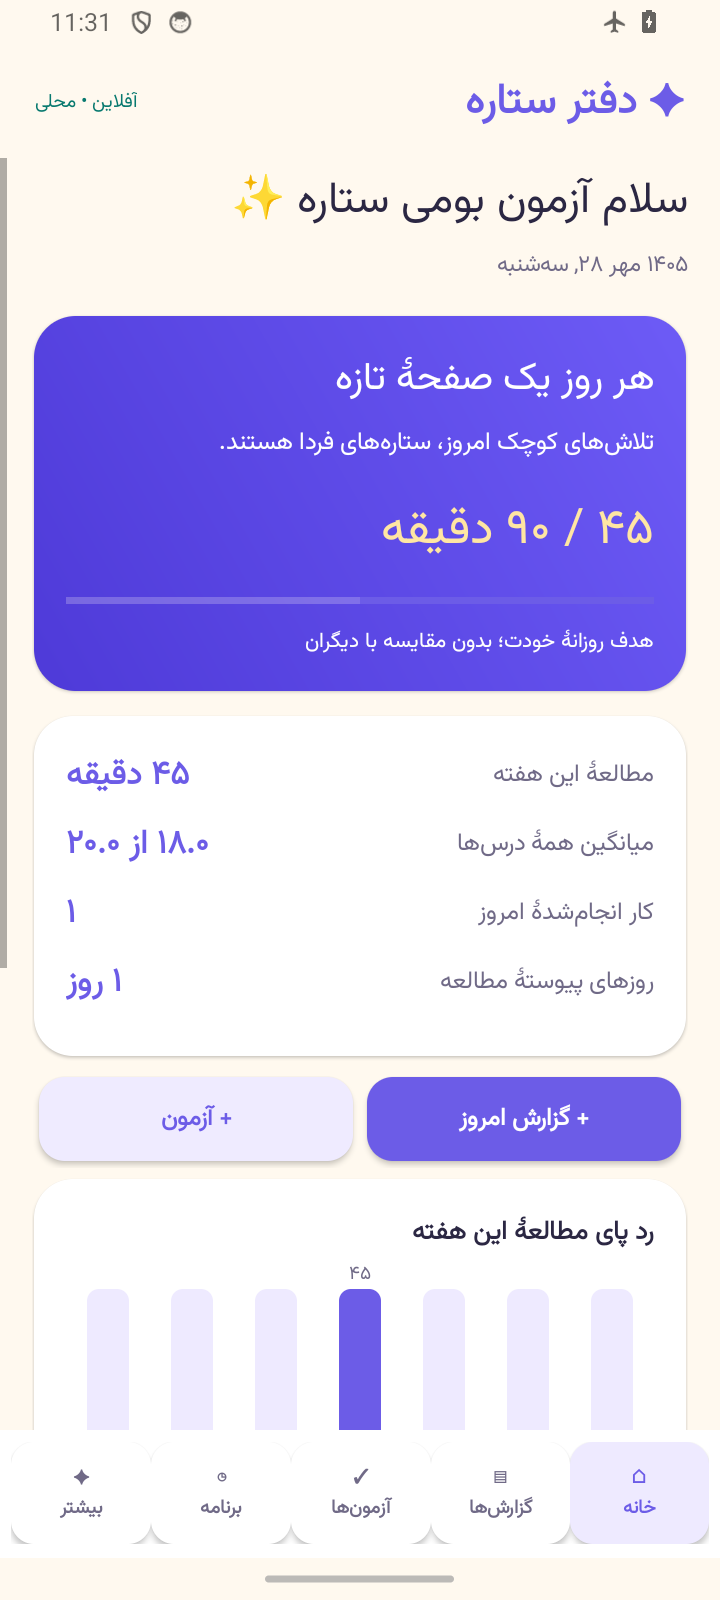
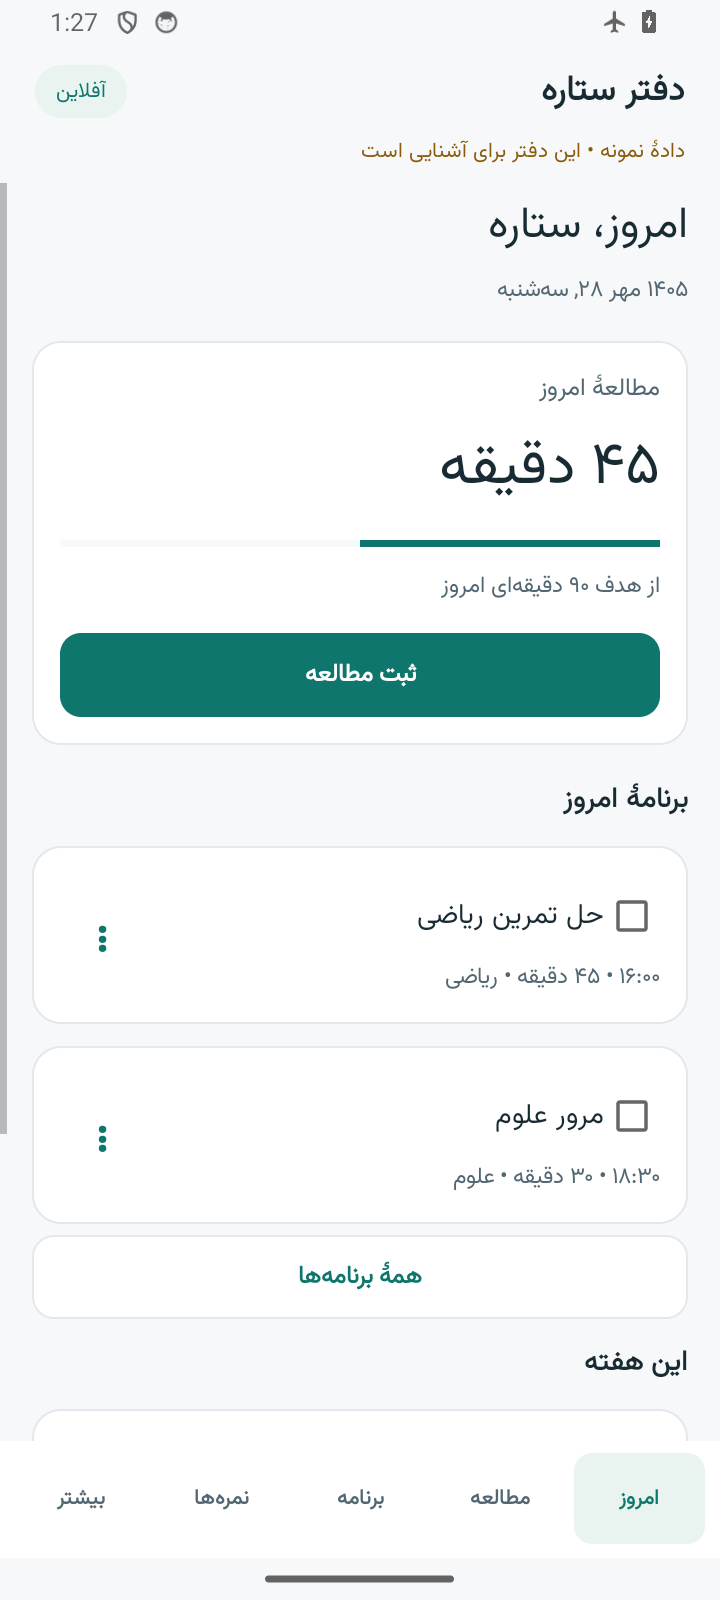
docs: publish v1.1 validation scope and refreshed Android previews

diff --git a/docs/QA-fa.md b/docs/QA-fa.md
@@ -1,56 +1,70 @@
-# نتایج بررسی نسخهٔ ۱٫۰٫۰
+# بررسی نسخهٔ ۱٫۱٫۰ دفتر ستاره
 
-تاریخ بررسی محلی: ۲۰ اکتبر ۲۰۲۶. این گزارش محدودهٔ اثباتشدهٔ نسخهٔ تحویلی را ثبت میکند؛ ادعای نبودن تمام باگهای ممکن نیست.
+بررسی ۲۰ اکتبر ۲۰۲۶ با دادهٔ ساختگی انجام شد. پیش از تغییر، ۱۰۳ آزمون واحد و ۱۴ آزمون مرورگر نسخهٔ سروری اجرا شدند و از سورس و پایگاه دادهٔ موجود پشتیبان گرفته شد. این گزارش محدودهٔ آزمودهشده را بیان میکند و تضمین نبودن تمام باگهای ممکن نیست.
 
-## وب
+## تغییرات رابط و رفع ایراد
+
+- صفحهٔ امروز یک کار اصلی دارد: ثبت مطالعه. منو کوتاهتر و ابزارهای تکمیلی در «بیشتر» قرار گرفتهاند.
+- زمینهٔ روشن، رنگ سبزآبی، متن خواناتر، فرمهای کوتاهتر و جزئیات اختیاری جمعشونده روی وب و اندروید اجرا شدهاند.
+- زمان منفی یا اعشاری خطای مشخص میدهد؛ اعداد فارسی پذیرفته میشوند.
+- در اندروید، ویرایش متن کارها وضعیت تیک و ارتباط درس را حفظ میکند.
+- در وب مستقل، تغییر «۱۸ از ۲۰» به حالت درصدی «۹۰ از ۱۰۰» را حفظ میکند؛ نمرهٔ اعلامنشده خالی میماند.
+- سرریز تنظیمات در موبایل، خروج فوکوس از پنجرهٔ فرم با Tab، و بازشدن راهنما هنگام قطع اینترنت اصلاح شدند.
+- پشتیبان دارای شناسهٔ نامعتبر رد میشود و هدفهای اعشاری معتبر نسخهٔ قبلی اندروید همچنان قابل انتقالاند.
+
+## وب مستقل و نسخهٔ سروری
+
+[وب مستقل](https://matinmt3.github.io/daftar-setareh/) با دفتر خالی و بدون ثبتنام شروع میشود. دادهها در مرورگر همان دستگاه ذخیره میشوند. دریافت کامل اولیه به اینترنت نیاز دارد؛ پس از آن فایلهای برنامه و راهنما در دسترس آفلایناند. وب و اندروید خودکار همگام نمیشوند؛ انتقال پشتیبان JSON با انتخاب و تأیید کاربر، اطلاعات مقصد را جایگزین میکند.
 
 | بررسی | نتیجه |
 | --- | --- |
-| ساخت تولید Next.js 16.4.2 با Turbopack | موفق |
-| TypeScript و lint | موفق |
-| آزمون واحد و یکپارچه | ۱۰۳ از ۱۰۳، در ۱۰ فایل |
-| گردش مرورگر روی ساخت تولید | ۱۴ از ۱۴؛ بدون شکست، ردشدن یا ناپایداری |
-| Lighthouse SEO | ۱۰۰ در هر هشت اجرا |
-| Lighthouse دسترسپذیری | ۱۰۰ در هر هشت اجرا |
-| چکلیست داخلی آمادگی کشف محتوا | ۱۸ از ۱۸ |
+| lint، آزمون واحد، ساخت تولید و TypeScript | موفق در [GitHub Actions](https://github.com/matinmt3/daftar-setareh/actions/runs/39404047998) |
+| آزمون واحد نهایی | ۱۳۰ از ۱۳۰ در ۱۲ فایل؛ اجرای محلی نهایی ۱۷٫۲۱ ثانیه |
+| مرورگر مستقل روی ساخت تولید | ۲۶ از ۲۶ در تلاش اول؛ ۲۹٫۱۳ ثانیه؛ بدون شکست، skip یا flaky |
+| نمایش وب مستقل | عرضهای ۳۲۰، ۳۹۰، ۷۶۸ و ۱۴۴۰ پیکسل؛ بررسی سرریز و ثبت تصاویر |
+| مرورگر نسخهٔ سروری | ۱۶ آزمون کامل، سپس آزمونهای مرتبط پس از آخرین اصلاحات؛ ۲۱ ترکیب مسیر/اندازه بدون خطای صفحه یا سرریز افقی |
+| پشتیبان وب به اندروید | ۹ بررسی موفق؛ مقایسهٔ تمام فیلدهای نمونه پس از ورود و خروج از Android Store |
+| پشتیبان اندروید به وب | مقایسهٔ تمام فیلدهای پروفایل، درس، گزارش، آزمون، جلسه و هدف موفق |
 
-Lighthouse برای چهار صفحهٔ `/`، `/guide`، `/about` و `/privacy`، هر کدام در موبایل و دسکتاپ اجرا شد. امتیاز اولیهٔ SEO صفحهٔ اصلی در هر دو حالت ۵۴ بود. برای سه صفحهٔ جدید، امتیاز اولیهٔ ۵۴ ادعا نمیشود. در این بررسی فقط SEO و دسترسپذیری اندازهگیری شدهاند؛ امتیاز عملکرد موبایل ادعا نشده است.
+آزمون مرورگر مستقل ثبت و ویرایش اطلاعات، تقویم شمسی، نمره و ضریب، بایگانی، کارنامه، چاپ، پشتیبان و بازیابی، حافظهٔ پر/خراب، تعارض قابل تشخیص دو تب، استفادهٔ آفلاین و مسیرهای راهنما را پوشش میدهد. گزارش JSON و HTML بهعنوان artifact اجرای CI نگهداری میشوند. انتشار Pages فقط پس از موفقیت سه کار وب سروری، اندروید و وب مستقل انجام میشود.
 
-چکلیست کشف محتوا، معیار داخلی این پروژه است و امتیاز جهانی GEO یا معیار Google نیست. دامنهٔ واقعی، HTTPS میزبان، خزش، نمایهشدن، رتبه یا ارجاع موتورهای هوش مصنوعی بررسی نشدهاند. برای استقرار، `SITE_URL` را پیش از build به origin دامنهٔ واقعی تنظیم کنید.
-
-اسکریپت بررسی در `scripts/audit-discovery.mjs` قابل اجرا است. حساب شخصی و مسیرهای ورود، راهاندازی حساب و API از نمایهسازی منع شدهاند؛ کنترل دسترسی مستقل از noindex انجام میشود.
-
-ارسال پیامک واقعی، زمانبند خارجی، سرور چندنمونهای و بار توزیعشده در این تحویل آزموده نشدهاند. حالت console پیامک فقط برای توسعه است. نسخهٔ وب به سرور Node.js و فضای پایدار SQLite نیاز دارد.
+نسخهٔ Next.js/SQLite در سورس موجود است و برای اجرا به سرور نیاز دارد؛ Pages از کد مستقل پوشهٔ web-offline استفاده میکند. پیامک واقعی و زیرساخت زمانبند نسخهٔ سروری آزموده نشدهاند.
 
 ## اندروید
 
-| مشخصه یا بررسی | نتیجه |
+| بررسی | نتیجه |
 | --- | --- |
-| شناسهٔ برنامه | `ir.daftarsetareh.offline` |
-| حداقل اندروید / target API | Android 8.0 / API 26؛ target API 36 |
-| آزمون واحد | ۲۰ از ۲۰ |
-| بررسی بومی روی شبیهساز API 34 | ۶۵ از ۶۵؛ حالت پرواز روشن، Wi-Fi و داده خاموش |
-| بررسی پس از بستن کامل و راهاندازی مجدد | ۱۱ از ۱۱ |
-| lint | صفر خطا؛ دو هشدار سازگاری API با استفادهٔ محافظتشده |
-| مجوزهای Manifest | هیچ مجوزی، از جمله INTERNET، درخواست نشده است |
-| امضای APK | RSA 3072، APK Signature Scheme v2؛ debuggable خاموش |
+| بسته / نسخه | ir.daftarsetareh.offline / 1.1.0، versionCode 2 |
+| آزمون واحد | ۲۳ از ۲۳ |
+| گردش بومی Android 14 / API 34 | ۸۱ بررسی موفق در بستهٔ جداگانهٔ QA؛ حالت پرواز، Wi-Fi و داده خاموش |
+| ماندگاری پس از بستن کامل و اجرای مجدد | ۱۵ بررسی موفق |
+| اجرای APK امضاشدهٔ نهایی | ۱۳ بررسی موفق؛ ساخت دفتر محلی، ۹ مسیر و زندهماندن پردازش بدون FATAL |
+| lint و ساخت release | موفق؛ صفر خطا و دو هشدار سازگاری API در کد محافظتشده |
+| مجوزهای Manifest | بدون مجوز، از جمله بدون INTERNET |
+| حداقل / target SDK | API 26 / API 36 |
+| امضا | RSA 3072، APK Signature Scheme v2؛ همان گواهی نسخهٔ ۱٫۰٫۰ |
 
-گوشی فیزیکی و اجرای برنامه روی API 26 و API 36 آزموده نشدهاند. جریانهای انتخاب فایل/چاپ همهٔ ارائهدهندگان اندروید و چاپگر فیزیکی را پوشش نمیدهند. آزمایش با دادهٔ ساختگی و بستهٔ جداگانهٔ QA انجام شد.
+schema و فایلهای Core، Dates و Store نسبت به ۱٫۰٫۰ تغییر نکردهاند. شناسه و کلید امضا حفظ شدهاند؛ APK جدید برای بهروزرسانی نصب قبلی است. پیش از هر تغییر پشتیبان بگیرید؛ حذف نصب، دفتر محلی را پاک میکند.
 
-پس از آزمون اجرایی، فقط دو فایل متنی مجوز کتابخانه به APK افزوده شدند؛ `classes.dex`، manifest باینری و منابع اجرایی نسخهٔ نهایی با نسخهٔ آزمودهشده بایتبهبایت یکساناند.
+گوشی فیزیکی، اجرای API 26 و API 36، تمام ارائهدهندگان انتخاب فایل و چاپگر فیزیکی آزموده نشدهاند. آزمونهای کامل اجرایی روی بستهٔ QA انجام شدند؛ APK release جداگانه نصب و آزمون اولیه شد. یکسانبودن بایتهای debug و release ادعا نمیشود.
 
-APK نهایی: `daftar-setareh-1.0.0-offline.apk`، اندازهٔ ۷۶۹٬۸۴۵ بایت. SHA-256:
+SHA-256 فایل APK نهایی:
[1 lines of base64/hex data omitted]
 
-```text
[1 lines of base64/hex data omitted]
-```
+SHA-256 گواهی عمومی امضا:
[1 lines of base64/hex data omitted]
 
-اثر انگشت SHA-256 گواهی امضای عمومی:
+## SEO، کشف محتوا و محدودیتها
 
-```text
[1 lines of base64/hex data omitted]
-```
+چهار صفحهٔ دفتر، راهنما، درباره و حریم خصوصی HTML فارسی، عنوان، توضیح، canonical و پیوندهای مشخص دارند. دادهٔ ساختاریافته، تصویر اشتراکگذاری، sitemap و llms.txt با اطلاعات واقعی نسخهٔ مستقل ساخته میشوند.
 
-برنامه مستقل و آفلاین است. ورود پیامکی، همگامسازی ابری و اعلان زمانبندیشده ندارد. JSON پشتیبان رمزگذاری نشده است؛ بازیابی فقط پس از اعتبارسنجی و تأیید، در یک تراکنش انجام میشود. سقف ورودی ۵ مگابایت و ۲۰ هزار رکورد است. پیش از حذف برنامه از اطلاعات پشتیبان بگیرید. کلید خصوصی امضا و اطلاعات شخصی در مخزن منتشر نشدهاند.
+اندازهگیری تازهٔ Lighthouse روی آدرس منتشرشده، گزارش HTTP و SHA-256 همراه [انتشار ۱٫۱٫۰](https://github.com/matinmt3/daftar-setareh/releases/tag/v1.1.0) ارائه میشوند. نتایج قبلی نسخهٔ سروری به سایت تازه تعمیم داده نمیشوند. GEO امتیاز رسمی و عمومی واحدی ندارد؛ آمادهبودن محتوا تضمین نمایهشدن، رتبه یا ارجاع موتورهای هوش مصنوعی نیست.
 
-[راهنمای ساخت اندروید](../android/README-fa.md) · [فایلهای انتشار](https://github.com/matinmt3/daftar-setareh/releases/latest)
+وب و اندروید مستقلاند و ورود پیامکی، همگامسازی ابری یا اعلان پسزمینه ندارند. دادهٔ محلی و JSON پشتیبان رمزگذاری نشدهاند. حفاظت دو تب، تغییرات قابل تشخیص پیش از ذخیره را متوقف میکند؛ تراکنش اتمی بین پردازشهای مرورگر ادعا نمیشود. دادههای موجود کاربر و تنظیمات خصوصی حفظ شدهاند؛ پایگاه داده، رمز و کلید امضا در سورس عمومی منتشر نشدهاند.
+
+![صفحهٔ امروز اندروید](images/android-home.png)
+![برنامهٔ اندروید](images/android-planner.png)
+![تنظیمات اندروید](images/android-settings.png)
+
+[راهنمای اندروید](../android/README-fa.md) · [راهنمای وب](https://matinmt3.github.io/daftar-setareh/guide/)
+

diff --git a/README.md b/README.md
@@ -4,6 +4,8 @@
 
 [باز کردن نسخهٔ وب](https://matinmt3.github.io/daftar-setareh/) · [دانلود اندروید](https://github.com/matinmt3/daftar-setareh/releases/latest) · [راهنمای وب](https://matinmt3.github.io/daftar-setareh/guide/) · [حریم خصوصی](https://matinmt3.github.io/daftar-setareh/privacy/)
 
+[گزارش آزمون و تصاویر نسخهٔ ۱٫۱٫۰](docs/QA-fa.md)
+
 ## چه چیزی سادهتر شده است؟
 
 - صفحهٔ «امروز» یک کار اصلی دارد: ثبت مطالعه. آمار و ابزارهای ثانویه از کار روزانه جدا شدهاند.
